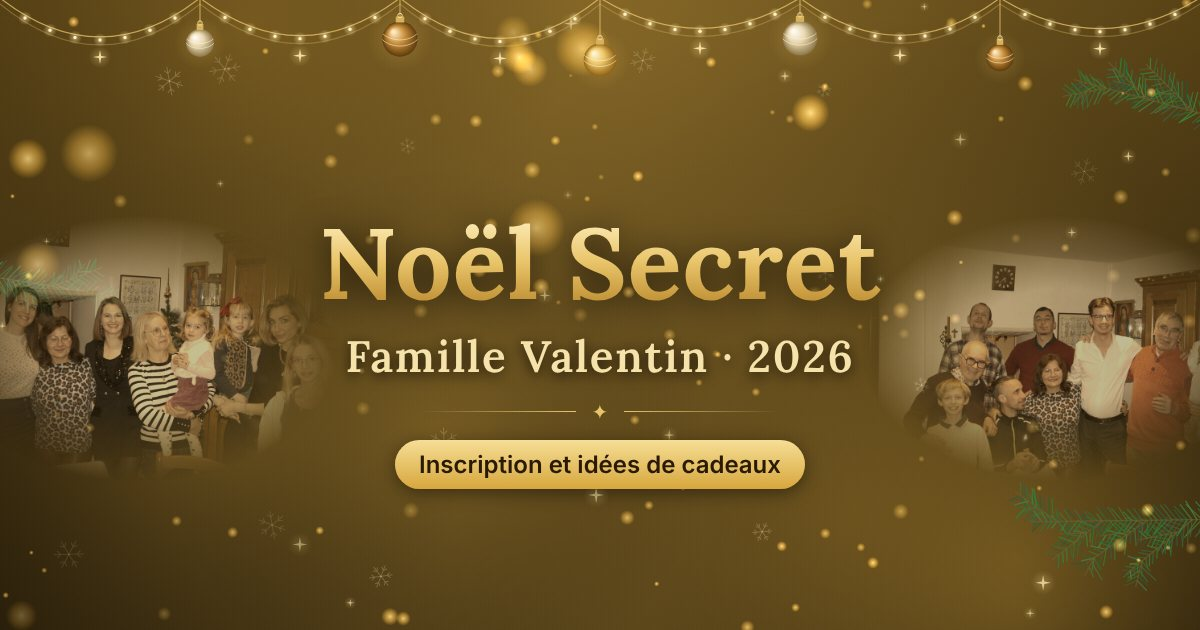
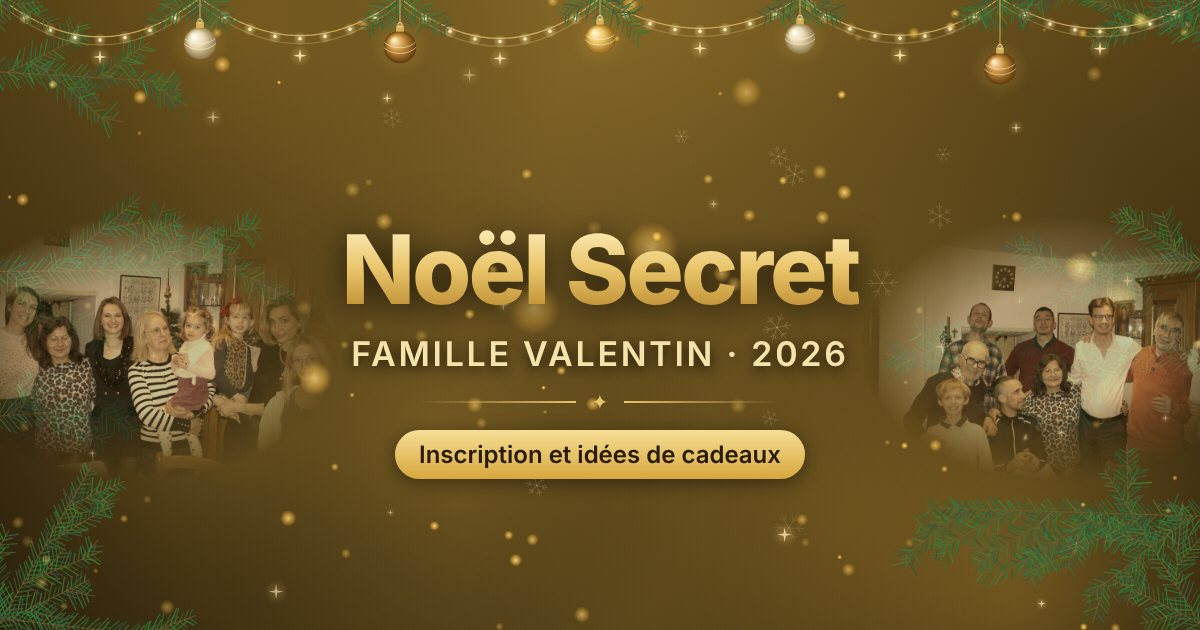
Add files via upload
Updating text and preview image

diff --git a/index.html b/index.html
@@ -22,7 +22,7 @@
 <meta name="twitter:card" content="summary_large_image">
 <link rel="preconnect" href="https://fonts.googleapis.com">
 <link rel="preconnect" href="https://fonts.gstatic.com" crossorigin>
-<link href="https://fonts.googleapis.com/css2?family=Cormorant+Garamond:wght@600;700&family=Figtree:wght@400;500;600;700&display=swap" rel="stylesheet">
+<link href="https://fonts.googleapis.com/css2?family=Inter:wght@400;500;600;700;800&display=swap" rel="stylesheet">
 <style>
 /* Layout: one narrow column under a garland of golden baubles; one view at a time (inscriptions, tirage, organisateur).
    One visual world, by choice: candle-lit gold on a dark warm night, fir branches at the edges, frosted cards. */
@@ -30,8 +30,8 @@
   --bg:#1d1507; --surface:rgba(38,28,10,.72); --ink:#fbf3e2; --muted:#d2c09c; --line:rgba(236,198,110,.28);
   --accent:#e9c46a; --accent-ink:#2a1a04; --pale:#f6e3ab; --soft:rgba(236,198,110,.10);
   --field:rgba(10,6,2,.55); --danger:#ffab9e;
-  --display:"Cormorant Garamond","Iowan Old Style","Palatino Linotype",Georgia,serif;
-  --body:"Figtree",system-ui,-apple-system,"Segoe UI",sans-serif;
+  --display:"Inter",system-ui,-apple-system,"Segoe UI",sans-serif;
+  --body:"Inter",system-ui,-apple-system,"Segoe UI",sans-serif;
   color-scheme:dark;
 }
 *{box-sizing:border-box}
@@ -40,12 +40,12 @@ body{position:relative;min-height:100vh;background:var(--bg);color:var(--ink);fo
 #bg{position:fixed;inset:0;width:100%;height:100%;z-index:0;display:block}
 #deco{position:absolute;top:0;left:0;width:100%;height:150px;z-index:0;display:block;pointer-events:none}
 .wrap{position:relative;z-index:1;max-width:620px;margin:0 auto;padding:0 16px 250px;display:flex;flex-direction:column;gap:18px}
-h1{font-family:var(--display);font-weight:700;font-size:3rem;line-height:1;margin:0;text-wrap:balance;letter-spacing:.01em;
+h1{font-family:var(--display);font-weight:800;font-size:2.7rem;line-height:1.02;margin:0;text-wrap:balance;letter-spacing:-.025em;
   color:var(--accent);background:linear-gradient(180deg,#fff1c2 0%,#e9c46a 48%,#b8862b 100%);-webkit-background-clip:text;background-clip:text;-webkit-text-fill-color:transparent;
   filter:drop-shadow(0 2px 10px rgba(0,0,0,.6))}
-h2{font-family:var(--display);font-weight:700;font-size:1.55rem;line-height:1.15;margin:0;text-wrap:balance;color:var(--pale)}
+h2{font-family:var(--display);font-weight:700;font-size:1.3rem;line-height:1.2;letter-spacing:-.01em;margin:0;text-wrap:balance;color:var(--pale)}
 p{margin:0}
-.sub{font-family:var(--display);font-weight:600;font-size:1.5rem;line-height:1.1;color:var(--pale);letter-spacing:.04em;text-shadow:0 2px 10px rgba(0,0,0,.75)}
+.sub{font-family:var(--display);font-weight:600;font-size:1.15rem;line-height:1.2;color:var(--pale);letter-spacing:.06em;text-transform:uppercase;text-shadow:0 2px 10px rgba(0,0,0,.75)}
 /* Family photos, gold-toned and faded into the decor. Phone: one behind the title, one at the foot of the page.
    Wide screens: one on each side of the column, as soft vignettes. */
 .ph{position:absolute;left:50%;transform:translateX(-50%);width:min(100%,620px);aspect-ratio:3/2;object-fit:cover;z-index:0;pointer-events:none;opacity:.5;
@@ -104,11 +104,11 @@ ul{list-style:none;margin:0;padding:0;display:flex;flex-direction:column}
 label.check{flex-direction:row;align-items:center;gap:12px;font-weight:500;font-size:.95rem;background:var(--field);border:1px solid var(--line);border-radius:10px;padding:12px;cursor:pointer}
 input[type="checkbox"]{width:22px;height:22px;flex:none;margin:0;padding:0;accent-color:var(--accent)}
 button.add{width:100%;border-style:dashed;padding:12px}
-h3{font-family:var(--display);font-weight:700;font-size:1.25rem;margin:0;color:var(--pale)}
+h3{font-family:var(--display);font-weight:700;font-size:1.08rem;margin:0;color:var(--pale)}
 .rescue{border-top:1px solid var(--line);padding-top:14px}
-.num{font-family:var(--display);font-weight:700;color:var(--accent);font-size:1.12rem;letter-spacing:.02em}
+.num{font-family:var(--display);font-weight:700;color:var(--accent);font-size:.98rem;letter-spacing:0}
 .reveal{border:1px solid var(--accent);border-radius:14px;padding:18px;display:flex;flex-direction:column;gap:12px;align-items:flex-start;background:rgba(233,196,106,.06)}
-.reveal .who{font-family:var(--display);font-weight:700;font-size:2.4rem;line-height:1.05;overflow-wrap:anywhere;color:var(--pale)}
+.reveal .who{font-family:var(--display);font-weight:800;font-size:2.1rem;letter-spacing:-.02em;line-height:1.05;overflow-wrap:anywhere;color:var(--pale)}
 .note{border-left:2px solid var(--accent);padding:2px 0 2px 12px;font-style:italic;white-space:pre-wrap;overflow-wrap:anywhere}
 .gifts{align-self:stretch}
 .gifts li{padding:10px 0;border-top:1px solid var(--line);display:flex;flex-direction:column;gap:2px;overflow-wrap:anywhere}
@@ -117,7 +117,7 @@ h3{font-family:var(--display);font-weight:700;font-size:1.25rem;margin:0;color:v
 .foot a{color:var(--muted);font-size:.8rem;opacity:.8;text-decoration:underline;text-underline-offset:3px}
 @media (prefers-reduced-motion:no-preference){ .reveal .who{animation:pop .35s ease-out} }
 @keyframes pop{from{transform:scale(.92)}to{transform:scale(1)}}
-@media (max-width:380px){ h1{font-size:2.5rem} }
+@media (max-width:380px){ h1{font-size:2.35rem} }
 [hidden]{display:none !important}
 </style>
 </head>
@@ -134,8 +134,6 @@ h3{font-family:var(--display);font-weight:700;font-size:1.25rem;margin:0;color:v
     <div class="facts">
       <span class="pill" id="phase">Inscriptions ouvertes</span>
       <span class="fact" id="count">0 inscrit</span>
-      <span class="fact" id="factBudget" hidden></span>
-      <span class="fact" id="factDate" hidden></span>
     </div>
   </header>
 
@@ -144,15 +142,15 @@ h3{font-family:var(--display);font-weight:700;font-size:1.25rem;margin:0;color:v
   <section id="v-inscriptions">
     <form class="card" id="joinForm" novalidate hidden>
       <h2>Je m'inscris</h2>
-      <p class="muted">Un seul formulaire à remplir. Les idées de cadeaux sont facultatives : vous pourrez revenir les compléter. Après le tirage au sort, cette même page vous dira à qui vous offrez un cadeau.</p>
+      <p class="muted">Les idées de cadeaux sont facultatives. Si vous en mettez, préférez plusieurs idées pour garder une part de surprise. Une fois le tirage au sort fait, revenez sur la page pour découvrir à qui vous offrirez quelque chose.</p>
       <span class="num">Étape 1 · Qui êtes-vous ?</span>
       <label for="joinName">Mon prénom
         <input id="joinName" maxlength="40" autocomplete="off" placeholder="Camille">
       </label>
-      <label for="joinPin">Mon code secret (4 à 8 chiffres, à retenir)
-        <input id="joinPin" type="password" inputmode="numeric" autocomplete="off" maxlength="8">
+      <label for="joinPin">Créer mon code secret
+        <input id="joinPin" type="password" inputmode="numeric" autocomplete="off" maxlength="8" placeholder="4 à 8 chiffres">
       </label>
-      <p class="muted">Ce code vous sera demandé pour modifier vos idées et pour découvrir votre tirage. Personne ne peut le retrouver à votre place : notez-le.</p>
+      <p class="muted">Retenez votre code, qui vous permet de revenir compléter vos idées et, après le tirage au sort, de découvrir à qui vous offrirez.</p>
       <span class="num">Étape 2 · Mes idées de cadeaux (facultatif)</span>
       <label class="check" for="jOpen"><input type="checkbox" id="jOpen"> Sans idée particulière, tout cadeau me fera plaisir</label>
       <div class="stack" id="jIdeas">
@@ -259,15 +257,6 @@ h3{font-family:var(--display);font-weight:700;font-size:1.25rem;margin:0;color:v
       <p class="err" id="adminErr"></p>
       <div class="stack" id="adminPanel" hidden>
         <p class="muted" id="adminInfo"></p>
-        <form class="row" id="metaForm" novalidate>
-          <label for="budget">Budget conseillé
-            <input id="budget" maxlength="30" placeholder="20 €">
-          </label>
-          <label for="date">Date de l'échange
-            <input id="date" maxlength="40" placeholder="samedi 19 décembre">
-          </label>
-          <button type="submit" class="quiet">Enregistrer</button>
-        </form>
         <div class="row"><button type="button" id="drawBtn">Clore les inscriptions et tirer au sort</button></div>
         <div class="stack rescue" id="rescue" hidden>
           <h3>Un participant a oublié son code ?</h3>
@@ -355,9 +344,11 @@ h3{font-family:var(--display);font-weight:700;font-size:1.25rem;margin:0;color:v
     glow(x,w*0.5,h*1.05,Math.max(w,h)*0.6,"rgba(216,168,66,.26)","rgba(216,168,66,0)");
     for(i=0;i<6;i++){ glow(x,rnd()*w,rnd()*h,(0.2+rnd()*0.3)*Math.max(w,h), i%2?"rgba(214,166,62,.20)":"rgba(176,132,44,.18)","rgba(0,0,0,0)"); }
     x.lineWidth=1.3; x.lineCap="round";
-    var k=Math.max(2,Math.round(h/260));
-    for(i=0;i<k;i++){ branch(x, w+12, (i+0.35+rnd()*0.4)*h/k, Math.PI+(rnd()-0.35)*0.5, Math.min(w*0.5,140+rnd()*120), 2); }
-    for(i=0;i<Math.max(1,k-1);i++){ branch(x, -12, (i+0.75+rnd()*0.3)*h/k, (rnd()-0.4)*0.5, Math.min(w*0.4,110+rnd()*100), 2); }
+    var k=Math.max(3,Math.round(h/170));
+    for(i=0;i<k;i++){ branch(x, w+12, (i+0.2+rnd()*0.6)*h/k, Math.PI+(rnd()-0.35)*0.55, Math.min(w*0.5,160+rnd()*140), 2); }
+    for(i=0;i<k;i++){ branch(x, -12, (i+0.45+rnd()*0.5)*h/k, (rnd()-0.45)*0.55, Math.min(w*0.45,150+rnd()*130), 2); }
+    branch(x, -10, h+10, -0.75-rnd()*0.3, Math.min(w*0.5,200), 2);        /* bottom corners */
+    branch(x, w+10, h+10, Math.PI+0.75+rnd()*0.3, Math.min(w*0.5,200), 2);
     for(i=0;i<Math.round(6+w*h/90000);i++){ snowflake(x, rnd()*w, rnd()*h, 7+rnd()*9, 0.10+rnd()*0.14); }
     x.globalCompositeOperation="lighter";
     var count=Math.round(Math.min(150, 45+w*h/10000));
@@ -401,6 +392,12 @@ h3{font-family:var(--display);font-weight:700;font-size:1.25rem;margin:0;color:v
         x.fillStyle="#fff1c2"; x.beginPath(); x.arc(bx,by+3,1.7,0,6.2832); x.fill();
       }
       sparkle(x, cx, depth+16, 7, 0.9);
+    }
+    x.lineWidth=1.3; x.lineCap="round";
+    for(i=0;i<=n;i++){ /* fir sprigs where the garland is hung */
+      branch(x, i*sw, -6, Math.PI/2+0.75+rnd()*0.35, 44+rnd()*26, 1);
+      branch(x, i*sw, -6, Math.PI/2-0.75-rnd()*0.35, 44+rnd()*26, 1);
+      branch(x, i*sw, -8, Math.PI/2+(rnd()-0.5)*0.3, 30+rnd()*16, 0);
     }
     for(i=1;i<n;i++){ bauble(x, i*sw, -2, 22+rnd()*34, 12+rnd()*7, i); }
   }
@@ -662,8 +659,6 @@ h3{font-family:var(--display);font-weight:700;font-size:1.25rem;margin:0;color:v
     $("phase").textContent=isDrawn?"Tirage effectué":"Inscriptions ouvertes";
     $("phase").classList.toggle("done", isDrawn);
     $("count").textContent=n+(n>1?" inscrits":" inscrit");
-    $("factBudget").hidden=!S.state.budget; $("factBudget").textContent="Budget "+(S.state.budget||"");
-    $("factDate").hidden=!S.state.date; $("factDate").textContent="Échange le "+(S.state.date||"");
 
     /* inscription et idées */
     $("joinForm").hidden=!S.loaded || isDrawn;
@@ -717,8 +712,6 @@ h3{font-family:var(--display);font-weight:700;font-size:1.25rem;margin:0;color:v
         $("rWho").textContent=rec?rec.name:"un participant qui s'est retiré";
         showGifts({ note:"rNote", list:"rGifts", empty:"rEmpty" }, rec);
       }
-      if(document.activeElement!==$("budget")) $("budget").value=S.state.budget||"";
-      if(document.activeElement!==$("date")) $("date").value=S.state.date||"";
     }
   }
 
@@ -820,12 +813,6 @@ h3{font-family:var(--display);font-weight:700;font-size:1.25rem;margin:0;color:v
     S.busy=false; render();
   });
   $("adminLock").addEventListener("click", function(){ S.isAdmin=false; S.adminKey=null; S.rescue=null; render(); });
-  $("metaForm").addEventListener("submit", async function(e){
-    e.preventDefault(); if(S.busy||!S.isAdmin) return; var errEl=$("adminErr"); errEl.textContent=""; S.busy=true;
-    try{ await api("PATCH","/meta/state", { budget:$("budget").value.trim().slice(0,30), date:$("date").value.trim().slice(0,40) }); }
-    catch(err){ fail(errEl, err); }
-    S.busy=false; await load();
-  });
   async function removePerson(id){
     if(S.busy||!S.isAdmin||drawn()) return; S.busy=true;
     try{ await api("DELETE","/people/"+id); }catch(err){ fail($("adminErr"), err); }
